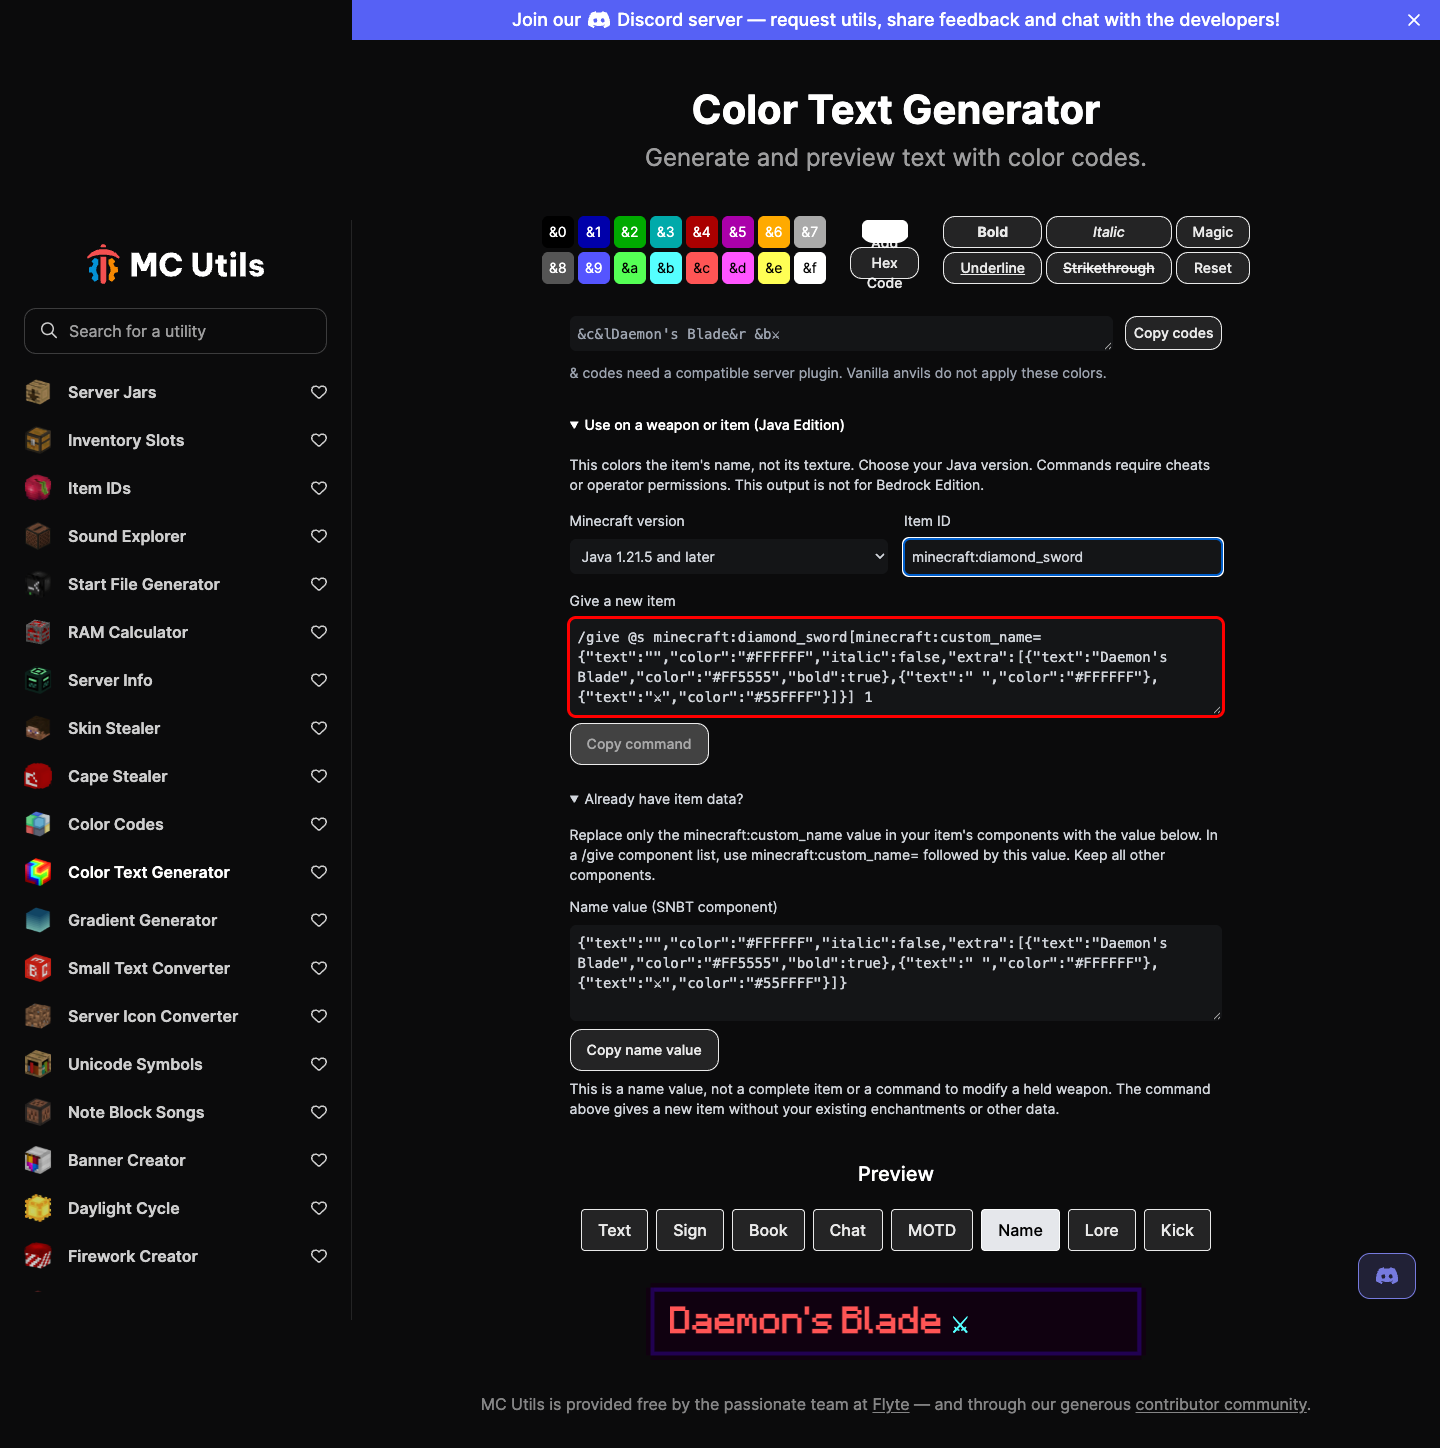
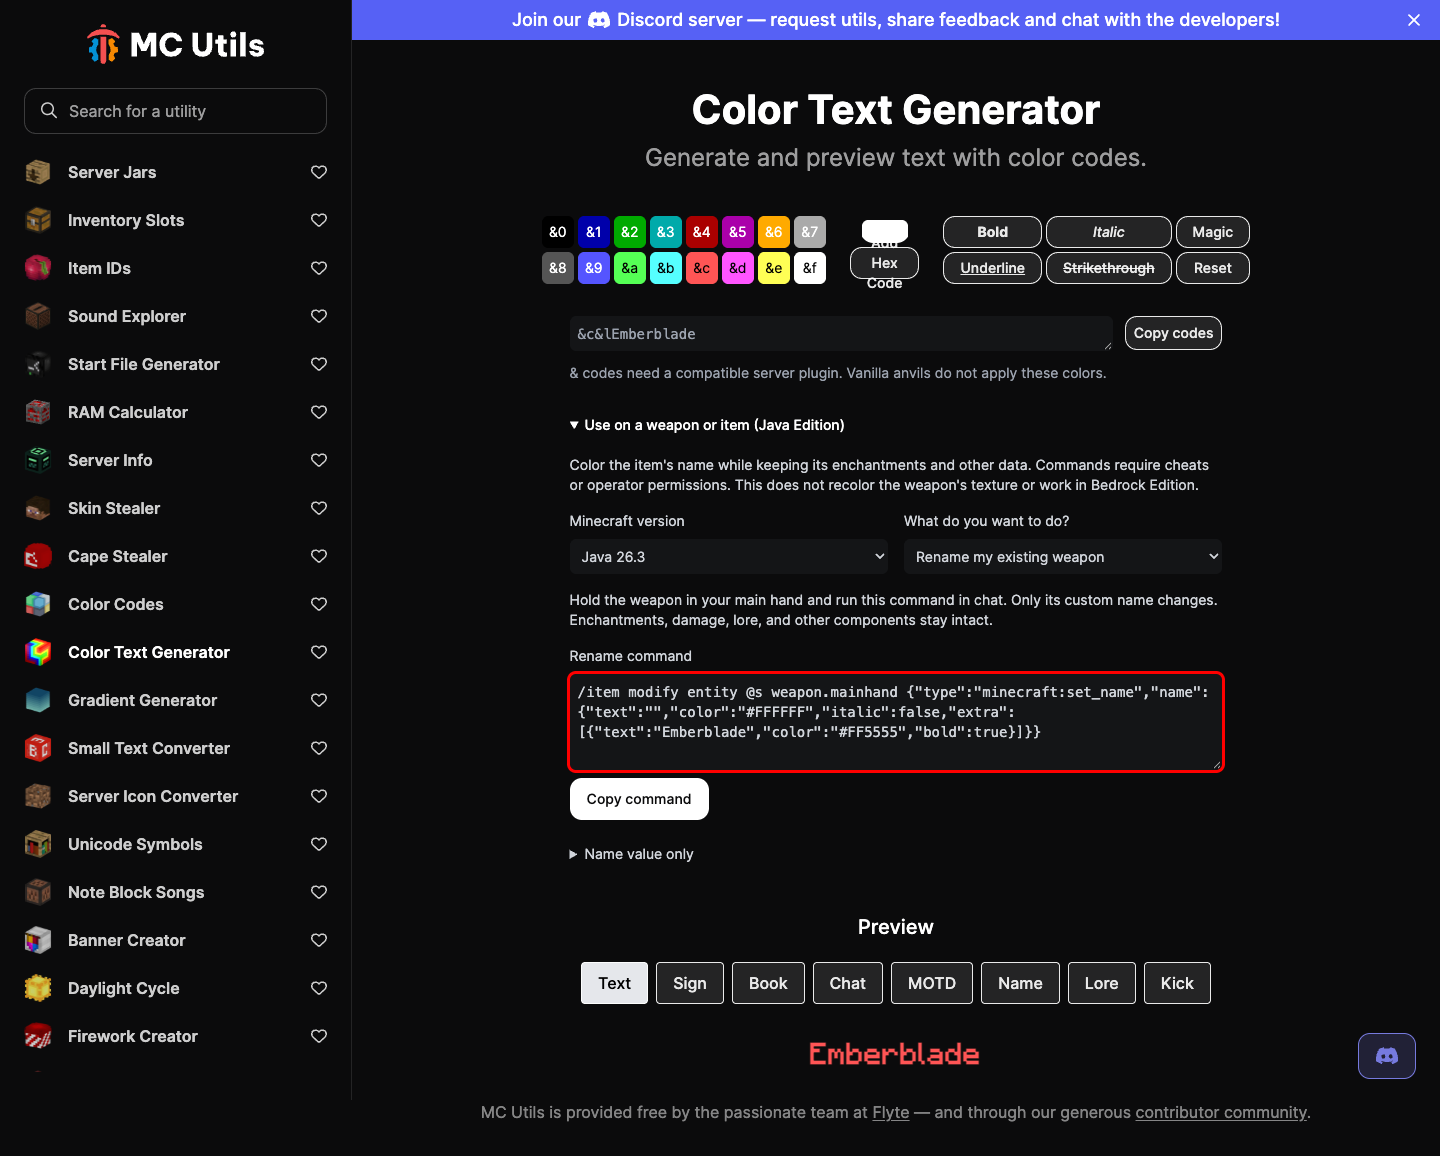
docs: verify existing-item renaming with Minecraft 26.2 and 26.3

diff --git a/docs/evidence/item-name-colors/java-26.3/Verify.java b/docs/evidence/item-name-colors/java-26.3/Verify.java
@@ -1,0 +1,36 @@
+import java.nio.file.*;
+import net.minecraft.SharedConstants;
+import net.minecraft.server.Bootstrap;
+import net.minecraft.data.registries.VanillaRegistries;
+import net.minecraft.commands.*;
+import net.minecraft.server.permissions.PermissionSet;
+import net.minecraft.commands.arguments.item.ItemParser;
+import net.minecraft.nbt.*;
+import net.minecraft.world.level.storage.loot.functions.*;
+import net.minecraft.core.component.DataComponents;
+import com.mojang.brigadier.StringReader;
+public class Verify {
+ public static void main(String[] args) throws Exception {
+  SharedConstants.tryDetectVersion(); Bootstrap.bootStrap();
+  var registries = VanillaRegistries.createWorldLookup();
+  net.minecraft.core.registries.BuiltInRegistries.DATA_COMPONENT_INITIALIZERS.build(registries).forEach(pending -> pending.apply());
+  var commands = new Commands(Commands.CommandSelection.ALL, Commands.createValidationContext(registries));
+  var source = Commands.createCompilationContext(PermissionSet.ALL_PERMISSIONS);
+  for (var line : Files.readAllLines(Path.of(args[0]))) {
+   if (line.isBlank()) continue;
+   var result = commands.getDispatcher().parse(line.replaceFirst("^/", ""), source);
+   Commands.validateParseResults(result);
+   if (result.getContext().getCommand() == null) throw new AssertionError("Incomplete command: " + line);
+   System.out.println("PARSED " + line);
+  }
+  var ops = registries.createSerializationContext(NbtOps.INSTANCE);
+  var modifier = LootItemFunctions.DIRECT_CODEC.parse(ops, TagParser.parseCompoundFully(Files.readString(Path.of(args[1])))).getOrThrow();
+  var stack = new ItemParser(registries).parse(new StringReader("minecraft:netherite_sword[minecraft:damage=17,minecraft:enchantments={\"minecraft:sharpness\":5},minecraft:custom_data={owner:\"Daemon\",serial:9223372036854775807L},minecraft:lore=[{text:\"Keep this lore\"}]]")).createItemStack(1);
+  var before = stack.copy();
+  ((SetNameFunction)modifier).run(stack, null);
+  if (!stack.get(DataComponents.CUSTOM_NAME).getString().equals("Emberblade")) throw new AssertionError("Name mismatch");
+  stack.remove(DataComponents.CUSTOM_NAME);
+  if (!net.minecraft.world.item.ItemStack.matches(before, stack)) throw new AssertionError("Non-name item data changed");
+  System.out.println("PASS: real set_name function preserved enchantments, damage, lore, custom data, and count");
+ }
+}

diff --git a/docs/evidence/item-name-colors/java-26.2/Verify.java b/docs/evidence/item-name-colors/java-26.2/Verify.java
@@ -1,0 +1,37 @@
+import java.nio.file.*;
+import net.minecraft.SharedConstants;
+import net.minecraft.server.Bootstrap;
+import net.minecraft.data.registries.VanillaRegistries;
+import net.minecraft.commands.*;
+import net.minecraft.server.permissions.PermissionSet;
+import net.minecraft.commands.arguments.item.ItemParser;
+import net.minecraft.nbt.*;
+import net.minecraft.world.level.storage.loot.functions.*;
+import net.minecraft.core.component.DataComponents;
+import com.mojang.brigadier.StringReader;
+public class Verify {
+ public static void main(String[] args) throws Exception {
+  SharedConstants.tryDetectVersion(); Bootstrap.bootStrap();
+  var registries = VanillaRegistries.createLookup();
+  
+  net.minecraft.core.registries.BuiltInRegistries.DATA_COMPONENT_INITIALIZERS.build(registries).forEach(pending -> pending.apply());
+  var commands = new Commands(Commands.CommandSelection.ALL, Commands.createValidationContext(registries));
+  var source = Commands.createCompilationContext(PermissionSet.ALL_PERMISSIONS);
+  for (var line : Files.readAllLines(Path.of(args[0]))) {
+   if (line.isBlank()) continue;
+   var result = commands.getDispatcher().parse(line.replaceFirst("^/", ""), source);
+   Commands.validateParseResults(result);
+   if (result.getContext().getCommand() == null) throw new AssertionError("Incomplete command: " + line);
+   System.out.println("PARSED " + line);
+  }
+  var ops = registries.createSerializationContext(NbtOps.INSTANCE);
+  var modifier = LootItemFunctions.ROOT_CODEC.parse(ops, TagParser.parseCompoundFully(Files.readString(Path.of(args[1])))).getOrThrow();
+  var stack = new ItemParser(registries).parse(new StringReader("minecraft:netherite_sword[minecraft:damage=17,minecraft:enchantments={\"minecraft:sharpness\":5},minecraft:custom_data={owner:\"Daemon\",serial:9223372036854775807L},minecraft:lore=[{text:\"Keep this lore\"}]]")).createItemStack(1);
+  var before = stack.copy();
+  ((SetNameFunction)modifier).run(stack, null);
+  if (!stack.get(DataComponents.CUSTOM_NAME).getString().equals("Emberblade")) throw new AssertionError("Name mismatch");
+  stack.remove(DataComponents.CUSTOM_NAME);
+  if (!net.minecraft.world.item.ItemStack.matches(before, stack)) throw new AssertionError("Non-name item data changed");
+  System.out.println("PASS: real set_name function preserved enchantments, damage, lore, custom data, and count");
+ }
+}

diff --git a/docs/evidence/item-name-colors/README.md b/docs/evidence/item-name-colors/README.md
@@ -1,17 +1,41 @@
 # Item name color output
 
-Browser captures from local Chrome on October 19, 2026. Red outlines mark the copied output. These show the web generator, not an in-game Minecraft session.
+Local Chrome captures from October 19, 2026. Red outlines mark command output. These show the web generator, not an in-game client session.
 
-- `before.png`: master at e8b6063. The Name preview renders colors, but Copy puts the literal `&c&lDaemon's Blade` plugin codes on the clipboard.
-- `after.png`: Java item command and name-only value, with the existing Name preview.
-- `gradient.png`: gradient item output and the command-block guidance for commands longer than chat's 256-character limit.
-- `mobile.png`: the same controls at 390px, with stacked version and item fields.
+- `before.png`: master at e8b6063. The Name preview renders colors, but Copy puts literal plugin codes on the clipboard.
+- `after.png`: rename the existing held weapon, with Java 26.3 selected.
+- `existing-data.png`: paste a sword's item data and generate a copy with its enchantments, damage, lore, and custom data preserved.
+- `gradient.png`: rename an existing weapon with a gradient, including command-block instructions for long commands.
+- `mobile.png`: held-weapon controls at 390px.
 
-Validation:
+## Validation
 
-- `bun test tests/item-name.test.ts`: 10 passing tests covering formatting resets, version syntax, quoting, Unicode, empty components, and invalid item IDs.
-- Local Chrome: actual clipboard equals the displayed command and name value for all three versions. Invalid item IDs disable command copying. Both generators fit at 320px and 390px. Changing the gradient message updates the command immediately. No page errors.
-- `bun run build`: passes. Existing Cloudflare adapter warning about route exclusion limits remains.
-- `bun run check`: same 66 errors and 11 warnings in the same 14 files as master. No new diagnostics.
+- `bun test tests/item-name.test.ts tests/item-data.test.ts`: 22 passing tests. Covers version syntax, formatting resets, escaping, Unicode, data preservation, removed components, malformed input, and input bounds.
+- Local Chrome: real clipboard matches displayed commands for all four version options. Held-item mode, modern and legacy pasted data, invalid-data copy prevention, gradient updates, and 320px/390px layouts pass. No page errors.
+- `bun run build`: passes with the existing Cloudflare route-exclusion warning.
+- `bun run check`: the same 66 errors and 11 warnings in 14 files as master. No new diagnostics.
 
-The reporters did not provide their Minecraft edition, version, server plugins, or item data. This fixes the reproduced vanilla-Java output mismatch; it does not establish the exact cause on their servers. Bedrock, anvil formatting, weapon textures, and automatically merging arbitrary item NBT are outside this change.
+## Minecraft game-code verification
+
+The `java-26.2` and `java-26.3` folders contain Java verification sources, generated commands, modifier data, server download metadata, and successful output. These run Mojang's actual command parser, SNBT/loot codecs, and `SetNameFunction` against a real `ItemStack`. No server world or client is started.
+
+Both versions accept the generated command syntax. The modifier changes the name to Emberblade, then the check removes that new name and compares the entire resulting stack to the original. Enchantments, damage, lore, custom data with a 64-bit serial, and count remain equal.
+
+This caught the Java 26.3 loot-function discriminator change from `function` to `type`. The version selector generates the appropriate key. The new-item and imported-item commands are also parsed by each version.
+
+To reproduce either version with Java 25:
+
+1. Download its official server bundle from the URL in `server.json` and verify the SHA-1.
+2. Extract the nested `.jar` files from the bundle's `META-INF/libraries` and `META-INF/versions` into a temporary directory.
+3. Copy that version's `Verify.java`, `commands.txt`, and `modifier.snbt` into the temporary directory.
+4. From that directory, run `javac -cp '*' Verify.java`, then `java -cp '*:.' Verify commands.txt modifier.snbt`.
+
+Older versions have serializer and browser tests, not this game-code verification. Snapshots after 26.3 are not claimed as supported.
+
+## Scope
+
+Modern Java can rename the held item directly. Java 1.16 through 1.20.4 instead uses a name-only data edit on the nearest dropped item, with instructions to isolate that item. Player NBT is never edited directly.
+
+Pasted input accepts a complete item stack or its tag/components compound in the selected version. The output retains supplied values, including numeric types and large integers, and changes only the name. It does not migrate between item formats. Unknown top-level fields are rejected rather than silently discarded. The generated `/give` creates a copy; the updated SNBT is also available separately.
+
+The reporters' edition, version, plugins, and exact NBT remain unknown. This implements their existing-weapon and existing-data workflows for vanilla Java. It does not add Bedrock commands or recolor weapon textures.
